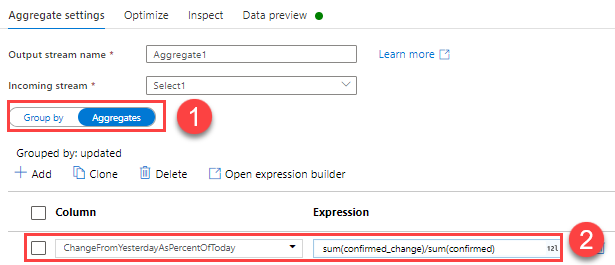
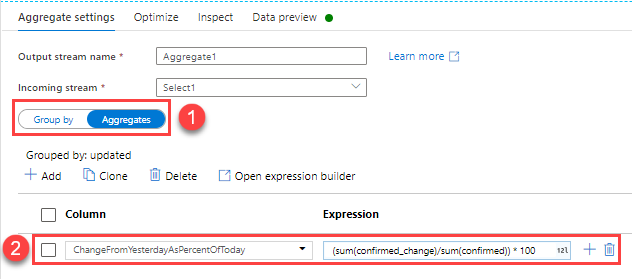
Sink setup information.

diff --git a/Blog-2/data-engineering.md b/Blog-2/data-engineering.md
@@ -213,6 +213,74 @@ Data is never perfect. Part of data engineering is data preparation; this includ
 
     ![Set the Group by settings for the Aggregate schema modifier.](./media/updated-group-by-column.png "Group by settings")
 
-14. Select the **Aggregates** switch (1). Title the **Column** `ChangeFromYesterdayAsPercentOfToday` and set the **Expression** to `sum(confirmed_change)/sum(confirmed)` (2).
+14. Select the **Aggregates** switch (1). Title the **Column** `ChangeFromYesterdayAsPercentOfToday` and set the **Expression** to `(sum(confirmed_change)/sum(confirmed)) * 100` (2).
 
     ![Set the Aggregate setting for the Aggregate schema modifier.](./media/aggregate-schema-modifier-aggregate-func.png "Aggregate settings")
+
+You have built a majority of the Data Flow. Now, you need to configure a sink to store the output data from the aggregate activity.
+
+## Task 6: Create a Synapse Dedicated Pool and a Sink Table
+
+In this Task, you will gain an introduction to how to configure a dedicated SQL pool as a sink for a Data Flow. If this is your first time working with a dedicated SQL pool, do not be overwhelmed. Think of it as a set of provisioned resources that run analytics queries in a distributed manner. You will gain more exposure to dedicated SQL pools as you read the next blog posts.
+
+1. Navigate to the **Manage** hub (1). Select **SQL pools** (2). Then, select **+ New**.
+
+    ![Navigating to the Manage hub to create a new SQL pool.](./media/create-sql-pool.png "Creating a new SQL pool in the Manage hub")
+
+2. On the **New dedicated SQL pool** window, provide the following details and select **Review + create**.
+
+    - **Dedicated SQL pool name**: `DataFlowOutputPool`
+    - **Performance level**: `DW100c`
+
+    ![Configuring the DataFlowOutputPool dedicated SQL pool.](./media/sql-pool-params.png "DataFlowOutputPool dedicated SQL pool parameters")
+
+3. Select **Create** once validation finishes.
+
+4. Once provisioning completes, navigate to the **Develop** hub and select **SQL script**.
+
+    ![Creating a SQL script in the Develop hub.](./media/create-sql-script.png "Creating a SQL script")
+
+5. After ensuring that you are connected to the `DataFlowOutputPool`, provide the following SQL script and select **Run**.
+
+    ```sql
+    CREATE TABLE AggregatedCovidData (
+        updated DATE NOT NULL,
+        ChangeFromYesterdayAsPercentOfToday decimal(6, 3) NULL
+    );
+    ```
+
+    ![Create dbo.AggregatedCovidData table in the DataFlowOutputPool database.](./media/create-sink-table.png "Creating sink AggregatedCovidData table")
+
+## Task 7: Configure the Sink Transformation
+
+Now that you have created the sink table, finalize the Data Flow. To do this, you will first create an Integration dataset for the `AggregatedCovidData` table.
+
+1. Navigate back to the Data Flow you began earlier (`TransformCovidData`). Add a new data **Sink**.
+
+    ![Adding a sink to the Data Flow.](./media/data-destination.png "Adding sink transformation")
+
+2. On the **Sink** tab (1), next to **Dataset**, select **+ New** (2).
+
+    ![Create a new Integration dataset from the Sink tab.](./media/select-integration-dataset-sink.png "New Integration dataset")
+
+3. In the **New integration dataset** window, select **Azure Synapse Analytics**. Then, select **Continue**.
+
+4. In the **Set properties** window, provide the following parameters. Then, select **OK**.
+
+    - **Name**: `SQLSink`
+    - **Linked service**: Choose the default that is bundled with your workspace
+    - Choose the **Select from existing table** option
+      - Select the **Edit** checkbox and enter `dbo.AggregatedCovidData` as the name
+    - Select **From connection/store** for **Import schema**
+
+    ![Set the properties for the new Integration dataset.](./media/sql-sink-properties.png "Set integration dataset properties")
+
+5. Then, configure the **DBName** parameter. Set it to `DataFlowOutputPool`. Select **OK**.
+
+    ![Populate the DBName parameter with DataFlowOutputPool.](./media/set-dbname-parameter.png "Populate the DBName parameter")
+
+6. The Azure Synapse Workspace experience will return you to the Data Flow. On the **Sink** tab, feel free to select **Test connection**. Ensure that it succeeds.
+
+    If it fails, select **Open** next to the **SQLSink** integration dataset. Ensure that the **DBName** parameter is set.
+
+    ![Verify that the DBName parameter is set for the Integration dataset.](./media/set-dbname-parameter-integration-dataset.png "Observe the populated DBName parameter in the Integration dataset")
